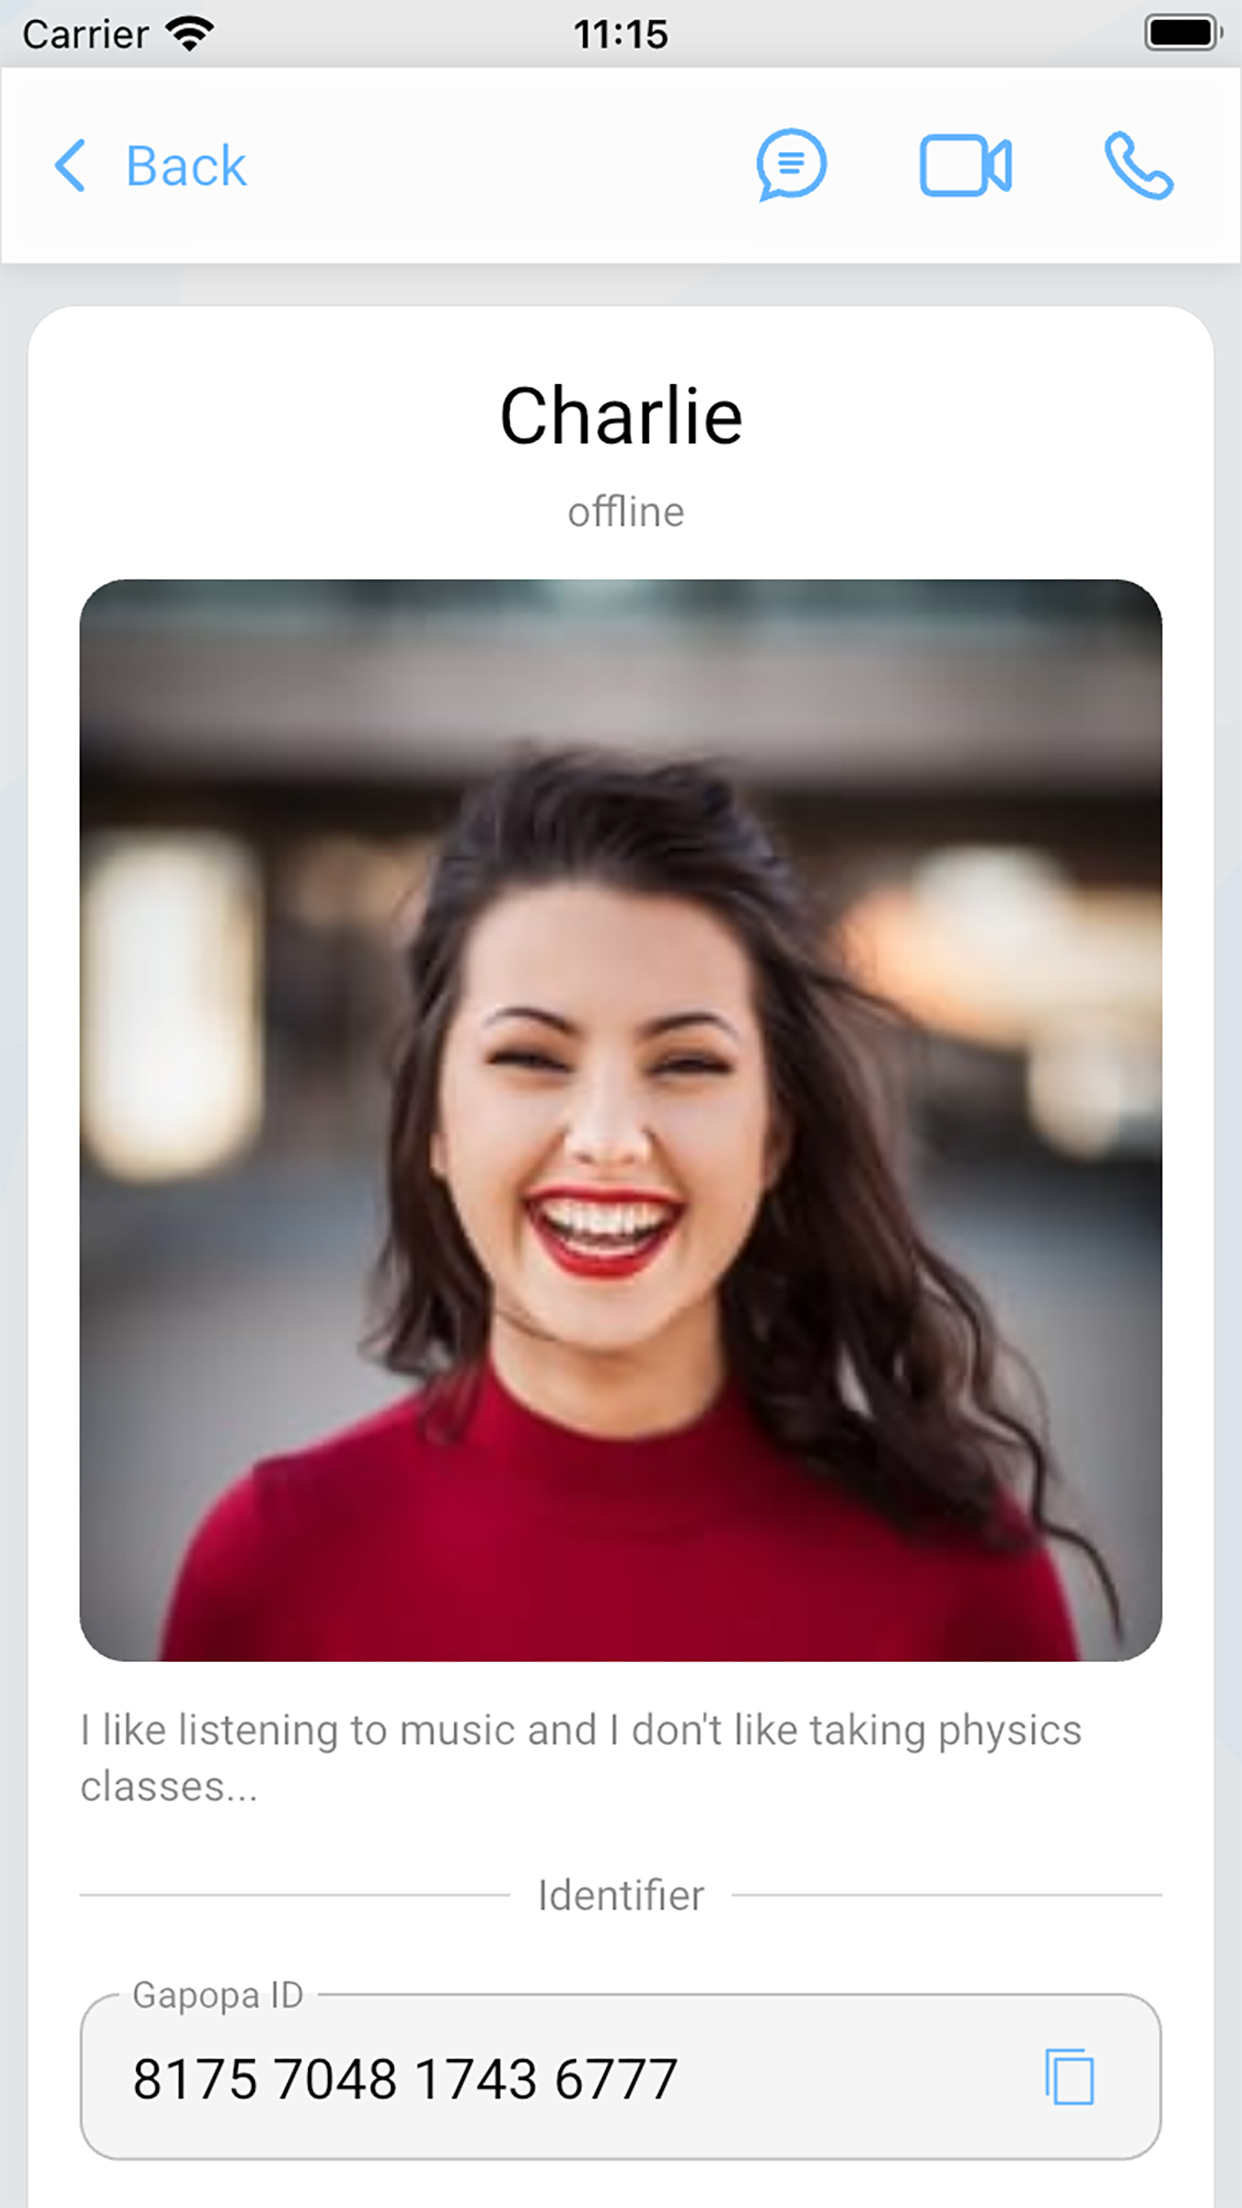
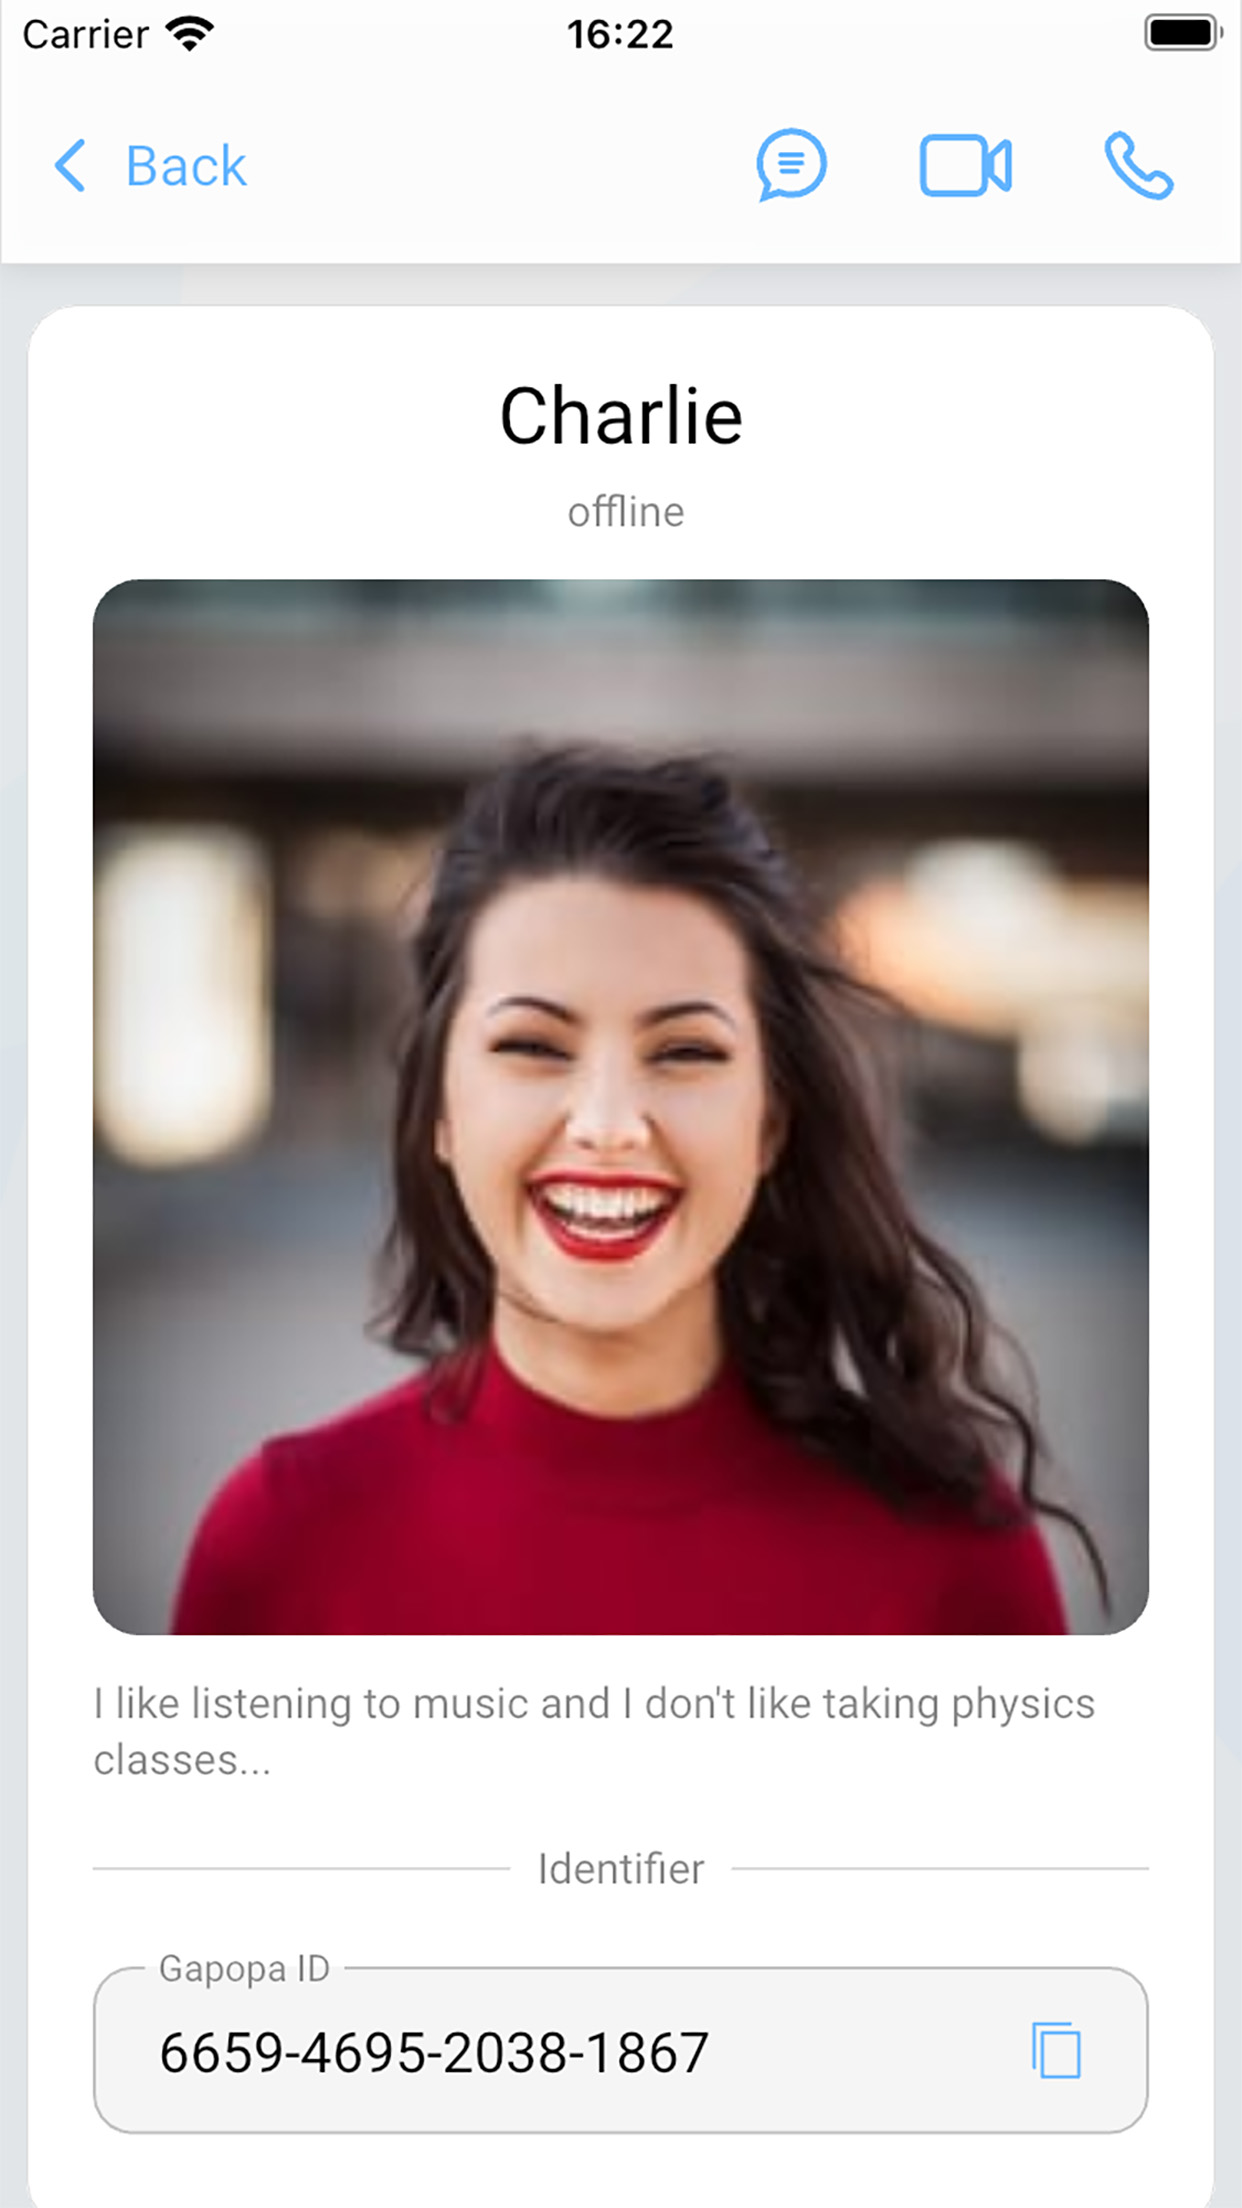
Update screenshots

diff --git a/lib/provider/drift/drift.dart b/lib/provider/drift/drift.dart
@@ -99,39 +99,48 @@ class CommonDatabase extends _$CommonDatabase {
         if (from != to) {
           bool migrated = false;
 
-          if (to >= 7 && from <= 6) {
-            await m.addColumn(settings, settings.videoVolume);
-            migrated = true;
-          }
+          try {
+            if (to >= 7 && from <= 6) {
+              await m.addColumn(settings, settings.videoVolume);
+              migrated = true;
+            }
 
-          if (to >= 6 && from <= 5) {
-            await m.addColumn(settings, settings.noiseSuppression);
-            await m.addColumn(settings, settings.noiseSuppressionLevel);
-            await m.addColumn(settings, settings.echoCancellation);
-            await m.addColumn(settings, settings.autoGainControl);
-            await m.addColumn(settings, settings.highPassFilter);
-            migrated = true;
-          }
+            if (to >= 6 && from <= 5) {
+              await m.addColumn(settings, settings.noiseSuppression);
+              await m.addColumn(settings, settings.noiseSuppressionLevel);
+              await m.addColumn(settings, settings.echoCancellation);
+              await m.addColumn(settings, settings.autoGainControl);
+              await m.addColumn(settings, settings.highPassFilter);
+              migrated = true;
+            }
 
-          if (to >= 5 && from <= 4) {
-            await m.addColumn(settings, settings.muteKeys);
-            migrated = true;
-          }
+            if (to >= 5 && from <= 4) {
+              await m.addColumn(settings, settings.muteKeys);
+              migrated = true;
+            }
 
-          if (to >= 4 && from <= 3) {
-            await m.addColumn(versions, versions.blocklistVersion);
-            await m.addColumn(versions, versions.blocklistCount);
-            migrated = true;
-          }
+            if (to >= 4 && from <= 3) {
+              await m.addColumn(versions, versions.blocklistVersion);
+              await m.addColumn(versions, versions.blocklistCount);
+              migrated = true;
+            }
 
-          if (to >= 3 && from <= 2) {
-            await m.addColumn(myUsers, myUsers.welcomeMessage);
-            migrated = true;
-          }
+            if (to >= 3 && from <= 2) {
+              await m.addColumn(myUsers, myUsers.welcomeMessage);
+              migrated = true;
+            }
 
-          if (to >= 2 && from <= 1) {
-            await m.addColumn(versions, versions.sessionsListVersion);
-            migrated = true;
+            if (to >= 2 && from <= 1) {
+              await m.addColumn(versions, versions.sessionsListVersion);
+              migrated = true;
+            }
+          } catch (e) {
+            // Should log the error, but proceed with initialization, as
+            // otherwise `drift` won't allow application to run at all.
+            Log.error(
+              'Unable to perform migrations due to: $e',
+              '$runtimeType',
+            );
           }
 
           if (!migrated) {

diff --git a/lib/ui/page/home/page/my_profile/session/view.dart b/lib/ui/page/home/page/my_profile/session/view.dart
@@ -141,7 +141,7 @@ class DeleteSessionView extends StatelessWidget {
                             label: hasEmail && hasPassword
                                 ? 'label_password_or_one_time_code'.l10n
                                 : hasEmail
-                                ? 'label_one_time_code'.l10n
+                                ? 'label_one_time_password'.l10n
                                 : 'label_password'.l10n,
                             hint: hasEmail && hasPassword
                                 ? 'label_enter_password_or_code'.l10n

diff --git a/release_notes/ru-RU.md b/release_notes/ru-RU.md
@@ -1,3 +1,5 @@
-- Обновлён дизайн модальных окон удаления сессии.
-- Обновлена анимация переключения страниц.
+- Обновлён дизайн медиа плеера.
+- Обновлён дизайн профиля пользователя и чата.
+- Пробелы в Gapopa ID заменены на дефисы.
+- Изменена высота шапки и навигации приложения при наличии отступов сверху/снизу на телефоне.
 - Исправления ошибок и улучшения производительности.

diff --git a/release_notes/es-ES.md b/release_notes/es-ES.md
@@ -1,3 +1,5 @@
-- Rediseño de los modales para eliminar sesiones.
-- Rediseño de la animación al cambiar de ruta.
+- Reproductor multimedia rediseñado.
+- Chat y perfiles de usuario rediseñados.
+- Barra de aplicaciones y barra de navegación rediseñadas para expandirse a la zona segura de la cuenta.
+- Se reemplazaron los espacios en Gapopa ID con guiones.
 - Corrección de errores y mejoras de rendimiento.

diff --git a/release_notes/en-US.md b/release_notes/en-US.md
@@ -1,3 +1,5 @@
-- Redesigned session deletion modals.
-- Redesigned route switching animation.
+- Redesigned media player.
+- Redesigned chat and user profiles.
+- Redesigned app bar and navigation bar to expand in height to account safe area.
+- Replaced spaces in Gapopa ID with hyphens.
 - Bug fixes and performance improvements.
